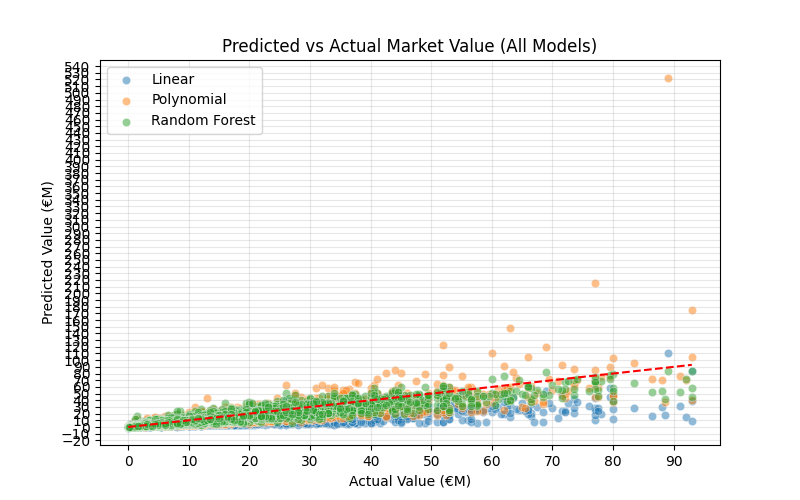
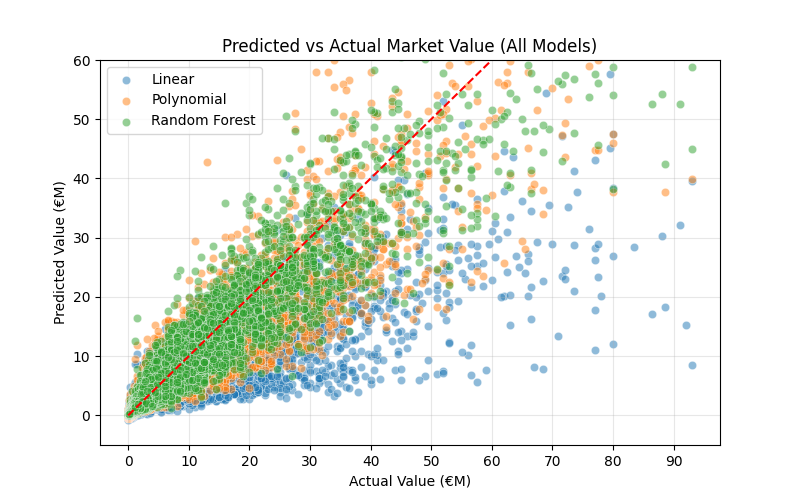
fixed scalling for chart

diff --git a/fifa_regression.py b/fifa_regression.py
@@ -126,6 +126,8 @@ plt.grid(alpha=0.3)
 
 plt.gca().xaxis.set_major_locator(ticker.MultipleLocator(10))
 plt.gca().yaxis.set_major_locator(ticker.MultipleLocator(10))
+plt.ylim(-5, 60) 
+
 
 plt.legend()
 plt.savefig(os.path.join(CHARTS_PATH, "predicted_vs_actual_all_models.png"))
